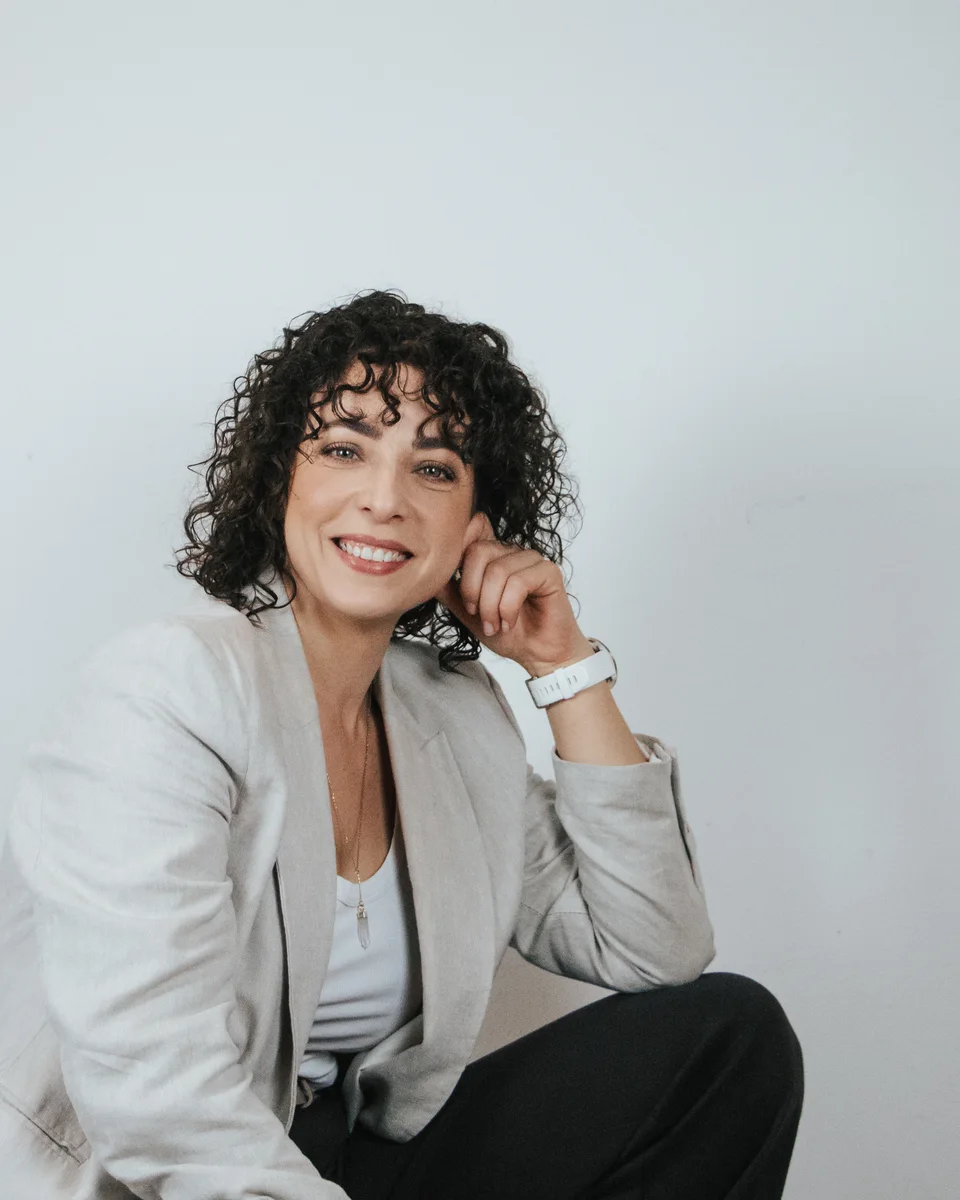
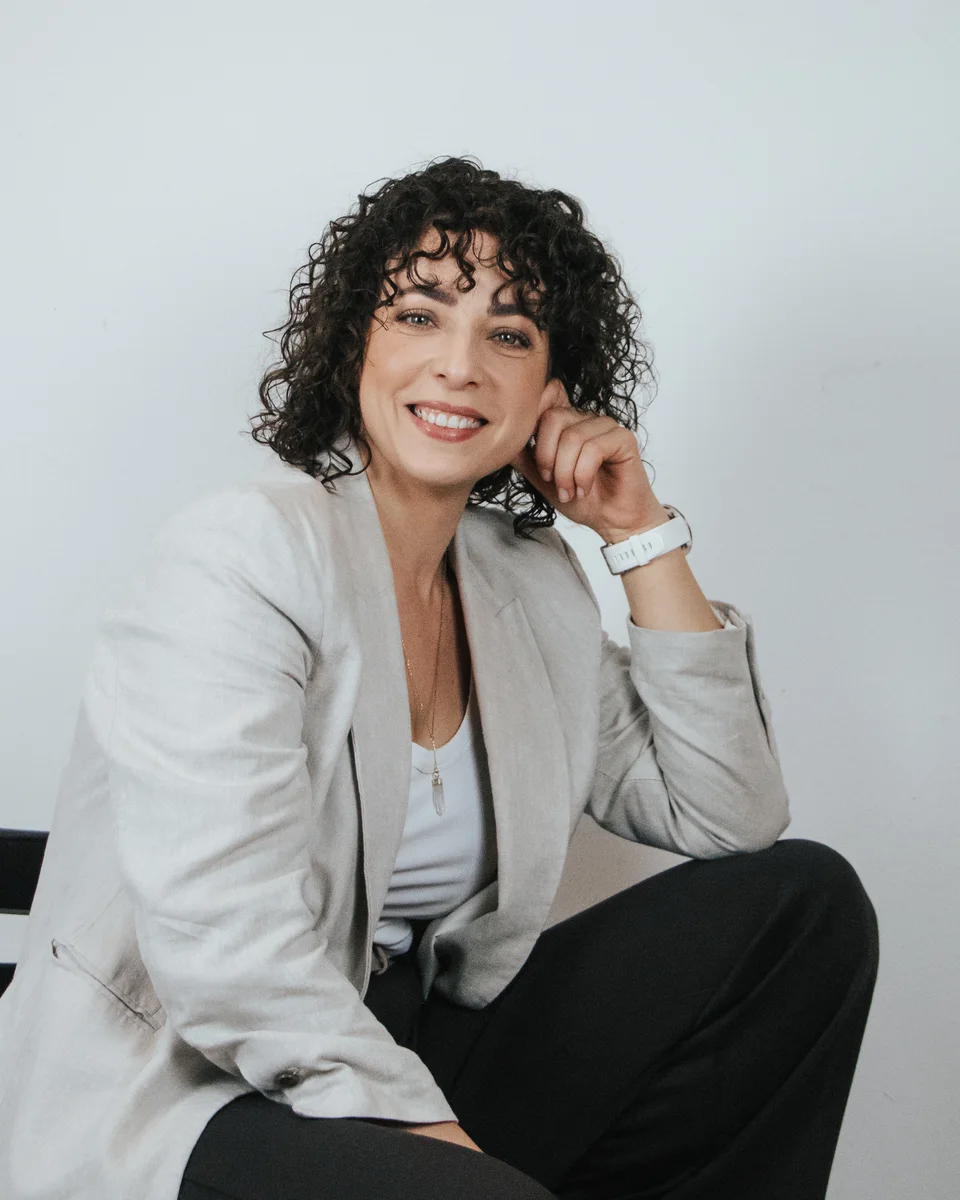
Center team portrait framing and align head positions

diff --git a/o-nas.html b/o-nas.html
@@ -1,4 +1,4 @@
 <!doctype html>
 <html lang="sk"><head><meta charset="utf-8"><meta http-equiv="Content-Security-Policy" content="default-src 'none'; base-uri 'none'; object-src 'none'; script-src 'self'; style-src 'self'; font-src 'self'; img-src 'self' data:; connect-src 'self' blob:; form-action 'none'"><meta name="referrer" content="strict-origin-when-cross-origin"><meta name="viewport" content="width=device-width,initial-scale=1"><meta name="robots" content="noindex,nofollow"><meta name="description" content="ATLAS Žilina — návrh a výroba kartónových obalov na mieru. Vizuálny koncept od Vivid Production."><title>O nás — ATLAS Žilina</title><link rel="stylesheet" href="style.css?v=20261125-portraits"></head>
 <body id="top"><div class="concept">VIZUÁLNY KONCEPT <span>ATLAS ŽILINA × VIVID PRODUCTION</span></div><header><a class="brand-lockup" href="index.html" aria-label="Atlas Žilina — úvod, od roku 1996"><img class="logo" src="logo.png" alt="ATLAS Žilina"><span class="brand-since">OD ROKU 1996</span></a><nav id="nav"><a href="index.html#riesenia">Obalové riešenia</a><a href="o-nas.html">O nás</a><a href="fefco.html">FEFCO katalóg</a><a href="index.html#kontakt">Kontakt</a></nav><a class="nav-cta" href="dopyt.html">Nezáväzný dopyt <span aria-hidden="true">↗</span></a><button id="menu" aria-label="Otvoriť menu" aria-expanded="false">☰</button></header>
-<main><section class="about-intro section"><span class="eyebrow">ATLAS / O NÁS</span><h1>Obaly vyrábame.<br><em>Vzťahy budujeme.</em></h1><p>Na trhu pôsobíme od roku 1996. Navrhujeme a vyrábame kartónové obaly na mieru pre malé aj veľké série. Spoznajte našu výrobu a ľudí, ktorí stoja za vaším obalom.</p><div class="about-links"><a href="materialy.html">Materiály ↗</a><a href="#vyroba">Výroba ↓</a><a href="#kvalita">Certifikáty ↓</a><a href="#tim">Náš tím ↓</a></div></section><section class="factory" id="vyroba"><div class="factory-title"><span class="eyebrow">02 / ZO SRDCA SLOVENSKA</span><h2>Za každým obalom<br>je skutočná <em>výroba.</em></h2></div><figure><img loading="lazy" src="material.jpg" alt="Pôvodná fotografia výrobnej haly z webu ATLAS Žilina"><figcaption><span>ATLAS Žilina / pohľad do výroby</span><span>PÔVODNÁ FOTOGRAFIA FIRMY</span></figcaption></figure><div class="factory-facts"><div><span class="fact-number">7<span>vrstiev</span></span><h3>Aj pre náročnejšie balenie.</h3><p>Vaše produkty balíme aj do 7-vrstvovej lepenky.</p></div><div><span class="fact-number fact-words">Malé aj veľké<span>série</span></span><h3>Objem podľa vašej potreby.</h3><p>Vyrábame malé aj veľké série obalov. Konkrétne množstvo si dohodneme podľa zadania.</p></div><div><span class="fact-number fact-words">Na mieru<span>produktu</span></span><h3>Od materiálu po rozmery.</h3><p>Navrhneme obal pre váš produkt. Používame kvalitnú recyklovateľnú lepenku.</p></div></div></section><section class="section process" id="spolupraca"><div class="section-top"><span class="eyebrow">03 / AKO TO ZABALÍME SPOLU</span></div><div class="intro"><h2>Od nápadu<br>k hotovému <em>obalu.</em></h2><p>Od prvého zadania k riešeniu pre váš produkt.</p></div><div class="process-cards"><article><span>01 / ZADANIE</span><h3>Začneme vaším produktom.</h3><p>Prejdeme si použitie obalu, požadované rozmery, množstvo a termín.</p></article><article><span>02 / NÁVRH</span><h3>Dáme mu správny tvar.</h3><p>Navrhneme riešenie na mieru. Môžeme vychádzať aj z vašej grafiky alebo technickej šablóny.</p></article><article><span>03 / VÝROBA</span><h3>Prejdeme k hotovému obalu.</h3><p>Po odsúhlasení zadania dohodneme výrobu a dodanie vašich obalov.</p></article></div></section><section class="quality" id="kvalita"><div class="quality-copy"><span class="eyebrow">05 / KVALITA MÁ SVOJ SYSTÉM</span><h2>Dôvera.<br>Čierne na <em>bielom.</em></h2><p>Certifikovaný systém manažérstva podľa EN ISO 9001:2015 pre výrobu kartonáže.</p><dl class="certificate-meta"><div><dt>Certifikačný orgán</dt><dd>TSÚ, a. s.</dd></div><div><dt>Registračné číslo</dt><dd>18/9/2026</dd></div><div><dt>Uvedená platnosť</dt><dd>25. 09. 2026 — 24. 09. 2029</dd></div></dl><div class="certificate-links"><a href="iso-9001-sk.pdf" target="_blank" rel="noopener">Certifikát / Slovensky <span>↗ PDF</span></a><a href="iso-9001-en.pdf" target="_blank" rel="noopener">Certificate / English <span>↗ PDF</span></a></div></div><a class="certificate-preview" href="iso-9001-sk.pdf" target="_blank" rel="noopener" aria-label="Otvoriť slovenský certifikát ISO 9001"><span class="cert-label">EN ISO 9001:2015</span><img src="certificate-preview.jpg" alt="Náhľad dodaného certifikátu ISO 9001 spoločnosti ATLAS Žilina" loading="lazy"><span class="cert-open">Pozrieť originál certifikátu ↗</span></a></section><section class="section team team-portraits" id="tim"><div class="section-top"><span class="eyebrow">ATLAS / ĽUDIA ZA OBALMI</span><span class="small">Osobne. Od prvého kontaktu.</span></div><div class="intro"><h2>Za značkou<br>stoja <em>ľudia.</em></h2><p>Spoznajte ľudí, ktorí stoja za vašimi obalmi. Od prvého zadania až po hotovú objednávku.</p></div><div class="team-grid"><article class="person person-known"><div class="portrait-frame"><img src="team/kristina-mastalerzova-960.webp" srcset="team/kristina-mastalerzova-480.webp 480w, team/kristina-mastalerzova-960.webp 960w" sizes="(max-width: 620px) calc((100vw - 46px) / 2), (max-width: 900px) calc((100vw - 100px) / 3), 420px" width="960" height="1200" loading="lazy" decoding="async" alt="Kristína Mastalerzová — Vedúca výroby"><span class="portrait-number" aria-hidden="true">01</span></div><div class="person-title"><h3>Kristína Mastalerzová</h3><a class="person-contact-arrow" href="mailto:mastalerzova@atlaszilina.sk" aria-label="Napísať e-mail: Kristína Mastalerzová">↗</a></div><p class="person-role">Vedúca výroby</p><a href="tel:+421905302631">+421 905 302 631</a><a href="mailto:mastalerzova@atlaszilina.sk">mastalerzova@atlaszilina.sk</a></article><article class="person person-known"><div class="portrait-frame"><img src="team/lea-mastalerzova-960.webp" srcset="team/lea-mastalerzova-480.webp 480w, team/lea-mastalerzova-960.webp 960w" sizes="(max-width: 620px) calc((100vw - 46px) / 2), (max-width: 900px) calc((100vw - 100px) / 3), 420px" width="960" height="1200" loading="lazy" decoding="async" alt="Lea Mastalerzová — Ekonomická a personálna riaditeľka, majiteľka"><span class="portrait-number" aria-hidden="true">02</span></div><div class="person-title"><h3>Lea Mastalerzová</h3><a class="person-contact-arrow" href="mailto:lea.mastalerzova@atlaszilina.sk" aria-label="Napísať e-mail: Lea Mastalerzová">↗</a></div><p class="person-role">Ekonomická a personálna riaditeľka, majiteľka</p><a href="tel:+421903253989">+421 903 253 989</a><a href="mailto:lea.mastalerzova@atlaszilina.sk">lea.mastalerzova@atlaszilina.sk</a></article><figure class="person person-portrait"><div class="portrait-frame"><img src="team/tim-01-960.webp" srcset="team/tim-01-480.webp 480w, team/tim-01-960.webp 960w" sizes="(max-width: 620px) calc((100vw - 46px) / 2), (max-width: 900px) calc((100vw - 100px) / 3), 420px" width="960" height="1200" loading="lazy" decoding="async" alt="Portrét členky tímu ATLAS Žilina"><span class="portrait-number" aria-hidden="true">03</span></div><figcaption class="portrait-team-label">ATLAS / ĽUDIA ZA OBALMI</figcaption></figure><figure class="person person-portrait"><div class="portrait-frame"><img src="team/tim-02-960.webp" srcset="team/tim-02-480.webp 480w, team/tim-02-960.webp 960w" sizes="(max-width: 620px) calc((100vw - 46px) / 2), (max-width: 900px) calc((100vw - 100px) / 3), 420px" width="960" height="1200" loading="lazy" decoding="async" alt="Portrét členky tímu ATLAS Žilina"><span class="portrait-number" aria-hidden="true">04</span></div><figcaption class="portrait-team-label">ATLAS / ĽUDIA ZA OBALMI</figcaption></figure><figure class="person person-portrait"><div class="portrait-frame"><img src="team/tim-03-960.webp" srcset="team/tim-03-480.webp 480w, team/tim-03-960.webp 960w" sizes="(max-width: 620px) calc((100vw - 46px) / 2), (max-width: 900px) calc((100vw - 100px) / 3), 420px" width="960" height="1200" loading="lazy" decoding="async" alt="Portrét členky tímu ATLAS Žilina"><span class="portrait-number" aria-hidden="true">05</span></div><figcaption class="portrait-team-label">ATLAS / ĽUDIA ZA OBALMI</figcaption></figure><figure class="person person-portrait"><div class="portrait-frame"><img src="team/tim-04-960.webp" srcset="team/tim-04-480.webp 480w, team/tim-04-960.webp 960w" sizes="(max-width: 620px) calc((100vw - 46px) / 2), (max-width: 900px) calc((100vw - 100px) / 3), 420px" width="960" height="1200" loading="lazy" decoding="async" alt="Portrét členky tímu ATLAS Žilina"><span class="portrait-number" aria-hidden="true">06</span></div><figcaption class="portrait-team-label">ATLAS / ĽUDIA ZA OBALMI</figcaption></figure></div><div class="team-directory"><div class="team-directory-heading"><span class="eyebrow">SPOJTE SA S NAMI</span><h3>Ďalšie kontakty</h3></div><div class="team-directory-grid"><article class="team-directory-card"><div class="person-title"><h3>Ing. Jana Mandúchová</h3></div><p class="person-role">Majiteľka</p><a href="tel:+421903506199">+421 903 506 199</a><a href="mailto:manduchova@mtmobaly.sk">manduchova@mtmobaly.sk</a></article><article class="team-directory-card"><div class="person-title"><h3>Lenka Čabajová</h3></div><p class="person-role">Obchodná zástupkyňa</p><a href="tel:+421903244194">+421 903 244 194</a><a href="mailto:objednavky@atlaszilina.sk">objednavky@atlaszilina.sk</a></article><article class="team-directory-card"><div class="person-title"><h3>Ing. Ľubomíra Hollá</h3></div><p class="person-role">Ekonómka</p><a href="tel:+421417002002">+421 41 7002 002</a><a href="mailto:ekonomka@atlaszilina.sk">ekonomka@atlaszilina.sk</a></article><article class="team-directory-card"><div class="person-title"><h3>Ivana Bellová</h3></div><p class="person-role">Fakturantka</p><a href="tel:+421417002002">+421 41 7002 002</a><a href="mailto:faktury@atlaszilina.sk">faktury@atlaszilina.sk</a></article></div></div></section></main><footer id="kontakt"><div class="footer-top"><img src="logo.png" alt="ATLAS Žilina" class="logo"><p>Sme váš partner<br>vo svete obalov.</p><a href="#">Späť hore ↑</a></div><div class="footer-grid"><div><span class="eyebrow">NÁJDETE NÁS</span><p>Atlas Žilina, s. r. o.<br>Jasenové 236<br>013 19 Jasenové, Slovensko</p><a href="https://www.google.com/maps/search/?api=1&query=Atlas+Zilina+Jasenove+236" target="_blank" rel="noopener">Otvoriť mapu ↗</a></div><div><span class="eyebrow">BUĎME V KONTAKTE</span><p><a href="mailto:atlaszilina@atlaszilina.sk">atlaszilina@atlaszilina.sk</a><br><a href="tel:+421417637349">+421 41 7637 349</a><br><a href="tel:+421417002002">+421 41 7002 002</a><br><a href="tel:+421417002009">+421 41 7002 009</a></p></div><div><span class="eyebrow">FIREMNÉ ÚDAJE</span><p>IČO: 36006068<br>IČ DPH: SK2020447561<br>Fax: +421 41 7002 006</p><a href="https://www.facebook.com/profile.php?id=100064442391622" target="_blank" rel="noopener">Facebook ↗</a></div><div><span class="eyebrow">DOKUMENTY</span><p><a href="https://www.atlaszilina.sk/files/VOP.pdf" target="_blank" rel="noopener">Obchodné podmienky ↗</a><br><a href="https://www.atlaszilina.sk/files/reklamacny_poriadok.pdf" target="_blank" rel="noopener">Reklamačný poriadok ↗</a><br><a href="https://www.atlaszilina.sk/files/GDPR_ATLAS.pdf" target="_blank" rel="noopener">Ochrana osobných údajov ↗</a></p></div></div><div class="footer-bottom"><span>© 2026 ATLAS Žilina · Vizuálny návrh, nie oficiálny web.</span><span>KONCEPT & DIZAJN / VIVID PRODUCTION</span></div></footer><script src="app.js"></script></body></html>
+<main><section class="about-intro section"><span class="eyebrow">ATLAS / O NÁS</span><h1>Obaly vyrábame.<br><em>Vzťahy budujeme.</em></h1><p>Na trhu pôsobíme od roku 1996. Navrhujeme a vyrábame kartónové obaly na mieru pre malé aj veľké série. Spoznajte našu výrobu a ľudí, ktorí stoja za vaším obalom.</p><div class="about-links"><a href="materialy.html">Materiály ↗</a><a href="#vyroba">Výroba ↓</a><a href="#kvalita">Certifikáty ↓</a><a href="#tim">Náš tím ↓</a></div></section><section class="factory" id="vyroba"><div class="factory-title"><span class="eyebrow">02 / ZO SRDCA SLOVENSKA</span><h2>Za každým obalom<br>je skutočná <em>výroba.</em></h2></div><figure><img loading="lazy" src="material.jpg" alt="Pôvodná fotografia výrobnej haly z webu ATLAS Žilina"><figcaption><span>ATLAS Žilina / pohľad do výroby</span><span>PÔVODNÁ FOTOGRAFIA FIRMY</span></figcaption></figure><div class="factory-facts"><div><span class="fact-number">7<span>vrstiev</span></span><h3>Aj pre náročnejšie balenie.</h3><p>Vaše produkty balíme aj do 7-vrstvovej lepenky.</p></div><div><span class="fact-number fact-words">Malé aj veľké<span>série</span></span><h3>Objem podľa vašej potreby.</h3><p>Vyrábame malé aj veľké série obalov. Konkrétne množstvo si dohodneme podľa zadania.</p></div><div><span class="fact-number fact-words">Na mieru<span>produktu</span></span><h3>Od materiálu po rozmery.</h3><p>Navrhneme obal pre váš produkt. Používame kvalitnú recyklovateľnú lepenku.</p></div></div></section><section class="section process" id="spolupraca"><div class="section-top"><span class="eyebrow">03 / AKO TO ZABALÍME SPOLU</span></div><div class="intro"><h2>Od nápadu<br>k hotovému <em>obalu.</em></h2><p>Od prvého zadania k riešeniu pre váš produkt.</p></div><div class="process-cards"><article><span>01 / ZADANIE</span><h3>Začneme vaším produktom.</h3><p>Prejdeme si použitie obalu, požadované rozmery, množstvo a termín.</p></article><article><span>02 / NÁVRH</span><h3>Dáme mu správny tvar.</h3><p>Navrhneme riešenie na mieru. Môžeme vychádzať aj z vašej grafiky alebo technickej šablóny.</p></article><article><span>03 / VÝROBA</span><h3>Prejdeme k hotovému obalu.</h3><p>Po odsúhlasení zadania dohodneme výrobu a dodanie vašich obalov.</p></article></div></section><section class="quality" id="kvalita"><div class="quality-copy"><span class="eyebrow">05 / KVALITA MÁ SVOJ SYSTÉM</span><h2>Dôvera.<br>Čierne na <em>bielom.</em></h2><p>Certifikovaný systém manažérstva podľa EN ISO 9001:2015 pre výrobu kartonáže.</p><dl class="certificate-meta"><div><dt>Certifikačný orgán</dt><dd>TSÚ, a. s.</dd></div><div><dt>Registračné číslo</dt><dd>18/9/2026</dd></div><div><dt>Uvedená platnosť</dt><dd>25. 09. 2026 — 24. 09. 2029</dd></div></dl><div class="certificate-links"><a href="iso-9001-sk.pdf" target="_blank" rel="noopener">Certifikát / Slovensky <span>↗ PDF</span></a><a href="iso-9001-en.pdf" target="_blank" rel="noopener">Certificate / English <span>↗ PDF</span></a></div></div><a class="certificate-preview" href="iso-9001-sk.pdf" target="_blank" rel="noopener" aria-label="Otvoriť slovenský certifikát ISO 9001"><span class="cert-label">EN ISO 9001:2015</span><img src="certificate-preview.jpg" alt="Náhľad dodaného certifikátu ISO 9001 spoločnosti ATLAS Žilina" loading="lazy"><span class="cert-open">Pozrieť originál certifikátu ↗</span></a></section><section class="section team team-portraits" id="tim"><div class="section-top"><span class="eyebrow">ATLAS / ĽUDIA ZA OBALMI</span><span class="small">Osobne. Od prvého kontaktu.</span></div><div class="intro"><h2>Za značkou<br>stoja <em>ľudia.</em></h2><p>Spoznajte ľudí, ktorí stoja za vašimi obalmi. Od prvého zadania až po hotovú objednávku.</p></div><div class="team-grid"><article class="person person-known"><div class="portrait-frame"><img src="team/kristina-mastalerzova-960.webp?v=20261125-center" srcset="team/kristina-mastalerzova-480.webp?v=20261125-center 480w, team/kristina-mastalerzova-960.webp?v=20261125-center 960w" sizes="(max-width: 620px) calc((100vw - 46px) / 2), (max-width: 900px) calc((100vw - 100px) / 3), 420px" width="960" height="1200" loading="lazy" decoding="async" alt="Kristína Mastalerzová — Vedúca výroby"><span class="portrait-number" aria-hidden="true">01</span></div><div class="person-title"><h3>Kristína Mastalerzová</h3><a class="person-contact-arrow" href="mailto:mastalerzova@atlaszilina.sk" aria-label="Napísať e-mail: Kristína Mastalerzová">↗</a></div><p class="person-role">Vedúca výroby</p><a href="tel:+421905302631">+421 905 302 631</a><a href="mailto:mastalerzova@atlaszilina.sk">mastalerzova@atlaszilina.sk</a></article><article class="person person-known"><div class="portrait-frame"><img src="team/lea-mastalerzova-960.webp?v=20261125-center" srcset="team/lea-mastalerzova-480.webp?v=20261125-center 480w, team/lea-mastalerzova-960.webp?v=20261125-center 960w" sizes="(max-width: 620px) calc((100vw - 46px) / 2), (max-width: 900px) calc((100vw - 100px) / 3), 420px" width="960" height="1200" loading="lazy" decoding="async" alt="Lea Mastalerzová — Ekonomická a personálna riaditeľka, majiteľka"><span class="portrait-number" aria-hidden="true">02</span></div><div class="person-title"><h3>Lea Mastalerzová</h3><a class="person-contact-arrow" href="mailto:lea.mastalerzova@atlaszilina.sk" aria-label="Napísať e-mail: Lea Mastalerzová">↗</a></div><p class="person-role">Ekonomická a personálna riaditeľka, majiteľka</p><a href="tel:+421903253989">+421 903 253 989</a><a href="mailto:lea.mastalerzova@atlaszilina.sk">lea.mastalerzova@atlaszilina.sk</a></article><figure class="person person-portrait"><div class="portrait-frame"><img src="team/tim-01-960.webp?v=20261125-center" srcset="team/tim-01-480.webp?v=20261125-center 480w, team/tim-01-960.webp?v=20261125-center 960w" sizes="(max-width: 620px) calc((100vw - 46px) / 2), (max-width: 900px) calc((100vw - 100px) / 3), 420px" width="960" height="1200" loading="lazy" decoding="async" alt="Portrét členky tímu ATLAS Žilina"><span class="portrait-number" aria-hidden="true">03</span></div><figcaption class="portrait-team-label">ATLAS / ĽUDIA ZA OBALMI</figcaption></figure><figure class="person person-portrait"><div class="portrait-frame"><img src="team/tim-02-960.webp?v=20261125-center" srcset="team/tim-02-480.webp?v=20261125-center 480w, team/tim-02-960.webp?v=20261125-center 960w" sizes="(max-width: 620px) calc((100vw - 46px) / 2), (max-width: 900px) calc((100vw - 100px) / 3), 420px" width="960" height="1200" loading="lazy" decoding="async" alt="Portrét členky tímu ATLAS Žilina"><span class="portrait-number" aria-hidden="true">04</span></div><figcaption class="portrait-team-label">ATLAS / ĽUDIA ZA OBALMI</figcaption></figure><figure class="person person-portrait"><div class="portrait-frame"><img src="team/tim-03-960.webp?v=20261125-center" srcset="team/tim-03-480.webp?v=20261125-center 480w, team/tim-03-960.webp?v=20261125-center 960w" sizes="(max-width: 620px) calc((100vw - 46px) / 2), (max-width: 900px) calc((100vw - 100px) / 3), 420px" width="960" height="1200" loading="lazy" decoding="async" alt="Portrét členky tímu ATLAS Žilina"><span class="portrait-number" aria-hidden="true">05</span></div><figcaption class="portrait-team-label">ATLAS / ĽUDIA ZA OBALMI</figcaption></figure><figure class="person person-portrait"><div class="portrait-frame"><img src="team/tim-04-960.webp?v=20261125-center" srcset="team/tim-04-480.webp?v=20261125-center 480w, team/tim-04-960.webp?v=20261125-center 960w" sizes="(max-width: 620px) calc((100vw - 46px) / 2), (max-width: 900px) calc((100vw - 100px) / 3), 420px" width="960" height="1200" loading="lazy" decoding="async" alt="Portrét členky tímu ATLAS Žilina"><span class="portrait-number" aria-hidden="true">06</span></div><figcaption class="portrait-team-label">ATLAS / ĽUDIA ZA OBALMI</figcaption></figure></div><div class="team-directory"><div class="team-directory-heading"><span class="eyebrow">SPOJTE SA S NAMI</span><h3>Ďalšie kontakty</h3></div><div class="team-directory-grid"><article class="team-directory-card"><div class="person-title"><h3>Ing. Jana Mandúchová</h3></div><p class="person-role">Majiteľka</p><a href="tel:+421903506199">+421 903 506 199</a><a href="mailto:manduchova@mtmobaly.sk">manduchova@mtmobaly.sk</a></article><article class="team-directory-card"><div class="person-title"><h3>Lenka Čabajová</h3></div><p class="person-role">Obchodná zástupkyňa</p><a href="tel:+421903244194">+421 903 244 194</a><a href="mailto:objednavky@atlaszilina.sk">objednavky@atlaszilina.sk</a></article><article class="team-directory-card"><div class="person-title"><h3>Ing. Ľubomíra Hollá</h3></div><p class="person-role">Ekonómka</p><a href="tel:+421417002002">+421 41 7002 002</a><a href="mailto:ekonomka@atlaszilina.sk">ekonomka@atlaszilina.sk</a></article><article class="team-directory-card"><div class="person-title"><h3>Ivana Bellová</h3></div><p class="person-role">Fakturantka</p><a href="tel:+421417002002">+421 41 7002 002</a><a href="mailto:faktury@atlaszilina.sk">faktury@atlaszilina.sk</a></article></div></div></section></main><footer id="kontakt"><div class="footer-top"><img src="logo.png" alt="ATLAS Žilina" class="logo"><p>Sme váš partner<br>vo svete obalov.</p><a href="#">Späť hore ↑</a></div><div class="footer-grid"><div><span class="eyebrow">NÁJDETE NÁS</span><p>Atlas Žilina, s. r. o.<br>Jasenové 236<br>013 19 Jasenové, Slovensko</p><a href="https://www.google.com/maps/search/?api=1&query=Atlas+Zilina+Jasenove+236" target="_blank" rel="noopener">Otvoriť mapu ↗</a></div><div><span class="eyebrow">BUĎME V KONTAKTE</span><p><a href="mailto:atlaszilina@atlaszilina.sk">atlaszilina@atlaszilina.sk</a><br><a href="tel:+421417637349">+421 41 7637 349</a><br><a href="tel:+421417002002">+421 41 7002 002</a><br><a href="tel:+421417002009">+421 41 7002 009</a></p></div><div><span class="eyebrow">FIREMNÉ ÚDAJE</span><p>IČO: 36006068<br>IČ DPH: SK2020447561<br>Fax: +421 41 7002 006</p><a href="https://www.facebook.com/profile.php?id=100064442391622" target="_blank" rel="noopener">Facebook ↗</a></div><div><span class="eyebrow">DOKUMENTY</span><p><a href="https://www.atlaszilina.sk/files/VOP.pdf" target="_blank" rel="noopener">Obchodné podmienky ↗</a><br><a href="https://www.atlaszilina.sk/files/reklamacny_poriadok.pdf" target="_blank" rel="noopener">Reklamačný poriadok ↗</a><br><a href="https://www.atlaszilina.sk/files/GDPR_ATLAS.pdf" target="_blank" rel="noopener">Ochrana osobných údajov ↗</a></p></div></div><div class="footer-bottom"><span>© 2026 ATLAS Žilina · Vizuálny návrh, nie oficiálny web.</span><span>KONCEPT & DIZAJN / VIVID PRODUCTION</span></div></footer><script src="app.js"></script></body></html>

diff --git a/tim.html b/tim.html
@@ -1,2 +1,2 @@
 <!doctype html>
-<html lang="sk"><head><meta charset="utf-8"><meta http-equiv="Content-Security-Policy" content="default-src 'none'; base-uri 'none'; object-src 'none'; script-src 'self'; style-src 'self'; font-src 'self'; img-src 'self' data:; connect-src 'self' blob:; form-action 'none'"><meta name="referrer" content="strict-origin-when-cross-origin"><meta name="viewport" content="width=device-width,initial-scale=1"><meta name="robots" content="noindex,nofollow"><meta name="description" content="ATLAS Žilina — návrh a výroba kartónových obalov na mieru. Vizuálny koncept od Vivid Production."><title>Náš tím — ATLAS Žilina</title><link rel="stylesheet" href="style.css?v=20261125-portraits"></head><body id="top"><div class="concept">VIZUÁLNY KONCEPT <span>ATLAS ŽILINA × VIVID PRODUCTION</span></div><header><a class="brand-lockup" href="index.html" aria-label="Atlas Žilina — úvod, od roku 1996"><img class="logo" src="logo.png" alt="ATLAS Žilina"><span class="brand-since">OD ROKU 1996</span></a><nav id="nav"><a href="index.html#riesenia">Obalové riešenia</a><a href="o-nas.html">O nás</a><a href="fefco.html">FEFCO katalóg</a><a href="index.html#kontakt">Kontakt</a></nav><a class="nav-cta" href="dopyt.html">Nezáväzný dopyt <span aria-hidden="true">↗</span></a><button id="menu" aria-label="Otvoriť menu" aria-expanded="false">☰</button></header><main><a class="page-back" href="index.html">← Späť na úvod</a><section class="section team team-portraits" id="tim"><div class="section-top"><span class="eyebrow">ATLAS / ĽUDIA ZA OBALMI</span><span class="small">Osobne. Od prvého kontaktu.</span></div><div class="intro"><h2>Za značkou<br>stoja <em>ľudia.</em></h2><p>Spoznajte ľudí, ktorí stoja za vašimi obalmi. Od prvého zadania až po hotovú objednávku.</p></div><div class="team-grid"><article class="person person-known"><div class="portrait-frame"><img src="team/kristina-mastalerzova-960.webp" srcset="team/kristina-mastalerzova-480.webp 480w, team/kristina-mastalerzova-960.webp 960w" sizes="(max-width: 620px) calc((100vw - 46px) / 2), (max-width: 900px) calc((100vw - 100px) / 3), 420px" width="960" height="1200" loading="lazy" decoding="async" alt="Kristína Mastalerzová — Vedúca výroby"><span class="portrait-number" aria-hidden="true">01</span></div><div class="person-title"><h3>Kristína Mastalerzová</h3><a class="person-contact-arrow" href="mailto:mastalerzova@atlaszilina.sk" aria-label="Napísať e-mail: Kristína Mastalerzová">↗</a></div><p class="person-role">Vedúca výroby</p><a href="tel:+421905302631">+421 905 302 631</a><a href="mailto:mastalerzova@atlaszilina.sk">mastalerzova@atlaszilina.sk</a></article><article class="person person-known"><div class="portrait-frame"><img src="team/lea-mastalerzova-960.webp" srcset="team/lea-mastalerzova-480.webp 480w, team/lea-mastalerzova-960.webp 960w" sizes="(max-width: 620px) calc((100vw - 46px) / 2), (max-width: 900px) calc((100vw - 100px) / 3), 420px" width="960" height="1200" loading="lazy" decoding="async" alt="Lea Mastalerzová — Ekonomická a personálna riaditeľka, majiteľka"><span class="portrait-number" aria-hidden="true">02</span></div><div class="person-title"><h3>Lea Mastalerzová</h3><a class="person-contact-arrow" href="mailto:lea.mastalerzova@atlaszilina.sk" aria-label="Napísať e-mail: Lea Mastalerzová">↗</a></div><p class="person-role">Ekonomická a personálna riaditeľka, majiteľka</p><a href="tel:+421903253989">+421 903 253 989</a><a href="mailto:lea.mastalerzova@atlaszilina.sk">lea.mastalerzova@atlaszilina.sk</a></article><figure class="person person-portrait"><div class="portrait-frame"><img src="team/tim-01-960.webp" srcset="team/tim-01-480.webp 480w, team/tim-01-960.webp 960w" sizes="(max-width: 620px) calc((100vw - 46px) / 2), (max-width: 900px) calc((100vw - 100px) / 3), 420px" width="960" height="1200" loading="lazy" decoding="async" alt="Portrét členky tímu ATLAS Žilina"><span class="portrait-number" aria-hidden="true">03</span></div><figcaption class="portrait-team-label">ATLAS / ĽUDIA ZA OBALMI</figcaption></figure><figure class="person person-portrait"><div class="portrait-frame"><img src="team/tim-02-960.webp" srcset="team/tim-02-480.webp 480w, team/tim-02-960.webp 960w" sizes="(max-width: 620px) calc((100vw - 46px) / 2), (max-width: 900px) calc((100vw - 100px) / 3), 420px" width="960" height="1200" loading="lazy" decoding="async" alt="Portrét členky tímu ATLAS Žilina"><span class="portrait-number" aria-hidden="true">04</span></div><figcaption class="portrait-team-label">ATLAS / ĽUDIA ZA OBALMI</figcaption></figure><figure class="person person-portrait"><div class="portrait-frame"><img src="team/tim-03-960.webp" srcset="team/tim-03-480.webp 480w, team/tim-03-960.webp 960w" sizes="(max-width: 620px) calc((100vw - 46px) / 2), (max-width: 900px) calc((100vw - 100px) / 3), 420px" width="960" height="1200" loading="lazy" decoding="async" alt="Portrét členky tímu ATLAS Žilina"><span class="portrait-number" aria-hidden="true">05</span></div><figcaption class="portrait-team-label">ATLAS / ĽUDIA ZA OBALMI</figcaption></figure><figure class="person person-portrait"><div class="portrait-frame"><img src="team/tim-04-960.webp" srcset="team/tim-04-480.webp 480w, team/tim-04-960.webp 960w" sizes="(max-width: 620px) calc((100vw - 46px) / 2), (max-width: 900px) calc((100vw - 100px) / 3), 420px" width="960" height="1200" loading="lazy" decoding="async" alt="Portrét členky tímu ATLAS Žilina"><span class="portrait-number" aria-hidden="true">06</span></div><figcaption class="portrait-team-label">ATLAS / ĽUDIA ZA OBALMI</figcaption></figure></div><div class="team-directory"><div class="team-directory-heading"><span class="eyebrow">SPOJTE SA S NAMI</span><h3>Ďalšie kontakty</h3></div><div class="team-directory-grid"><article class="team-directory-card"><div class="person-title"><h3>Ing. Jana Mandúchová</h3></div><p class="person-role">Majiteľka</p><a href="tel:+421903506199">+421 903 506 199</a><a href="mailto:manduchova@mtmobaly.sk">manduchova@mtmobaly.sk</a></article><article class="team-directory-card"><div class="person-title"><h3>Lenka Čabajová</h3></div><p class="person-role">Obchodná zástupkyňa</p><a href="tel:+421903244194">+421 903 244 194</a><a href="mailto:objednavky@atlaszilina.sk">objednavky@atlaszilina.sk</a></article><article class="team-directory-card"><div class="person-title"><h3>Ing. Ľubomíra Hollá</h3></div><p class="person-role">Ekonómka</p><a href="tel:+421417002002">+421 41 7002 002</a><a href="mailto:ekonomka@atlaszilina.sk">ekonomka@atlaszilina.sk</a></article><article class="team-directory-card"><div class="person-title"><h3>Ivana Bellová</h3></div><p class="person-role">Fakturantka</p><a href="tel:+421417002002">+421 41 7002 002</a><a href="mailto:faktury@atlaszilina.sk">faktury@atlaszilina.sk</a></article></div></div></section></main><footer id="kontakt"><div class="footer-top"><img src="logo.png" alt="ATLAS Žilina" class="logo"><p>Sme váš partner<br>vo svete obalov.</p><a href="#top">Späť hore ↑</a></div><div class="footer-grid"><div><span class="eyebrow">NÁJDETE NÁS</span><p>Atlas Žilina, s. r. o.<br>Jasenové 236<br>013 19 Jasenové, Slovensko</p><a href="https://www.google.com/maps/search/?api=1&query=Atlas+Zilina+Jasenove+236" target="_blank" rel="noopener">Otvoriť mapu ↗</a></div><div><span class="eyebrow">BUĎME V KONTAKTE</span><p><a href="mailto:atlaszilina@atlaszilina.sk">atlaszilina@atlaszilina.sk</a><br><a href="tel:+421417637349">+421 41 7637 349</a><br><a href="tel:+421417002002">+421 41 7002 002</a><br><a href="tel:+421417002009">+421 41 7002 009</a></p></div><div><span class="eyebrow">FIREMNÉ ÚDAJE</span><p>IČO: 36006068<br>IČ DPH: SK2020447561<br>Fax: +421 41 7002 006</p><a href="https://www.facebook.com/profile.php?id=100064442391622" target="_blank" rel="noopener">Facebook ↗</a></div><div><span class="eyebrow">DOKUMENTY</span><p><a href="https://www.atlaszilina.sk/files/VOP.pdf" target="_blank" rel="noopener">Obchodné podmienky ↗</a><br><a href="https://www.atlaszilina.sk/files/reklamacny_poriadok.pdf" target="_blank" rel="noopener">Reklamačný poriadok ↗</a><br><a href="https://www.atlaszilina.sk/files/GDPR_ATLAS.pdf" target="_blank" rel="noopener">Ochrana osobných údajov ↗</a></p></div></div><div class="footer-bottom"><span>© 2026 ATLAS Žilina · Vizuálny návrh, nie oficiálny web.</span><span>KONCEPT & DIZAJN / VIVID PRODUCTION</span></div></footer><script src="app.js"></script></body></html>
+<html lang="sk"><head><meta charset="utf-8"><meta http-equiv="Content-Security-Policy" content="default-src 'none'; base-uri 'none'; object-src 'none'; script-src 'self'; style-src 'self'; font-src 'self'; img-src 'self' data:; connect-src 'self' blob:; form-action 'none'"><meta name="referrer" content="strict-origin-when-cross-origin"><meta name="viewport" content="width=device-width,initial-scale=1"><meta name="robots" content="noindex,nofollow"><meta name="description" content="ATLAS Žilina — návrh a výroba kartónových obalov na mieru. Vizuálny koncept od Vivid Production."><title>Náš tím — ATLAS Žilina</title><link rel="stylesheet" href="style.css?v=20261125-portraits"></head><body id="top"><div class="concept">VIZUÁLNY KONCEPT <span>ATLAS ŽILINA × VIVID PRODUCTION</span></div><header><a class="brand-lockup" href="index.html" aria-label="Atlas Žilina — úvod, od roku 1996"><img class="logo" src="logo.png" alt="ATLAS Žilina"><span class="brand-since">OD ROKU 1996</span></a><nav id="nav"><a href="index.html#riesenia">Obalové riešenia</a><a href="o-nas.html">O nás</a><a href="fefco.html">FEFCO katalóg</a><a href="index.html#kontakt">Kontakt</a></nav><a class="nav-cta" href="dopyt.html">Nezáväzný dopyt <span aria-hidden="true">↗</span></a><button id="menu" aria-label="Otvoriť menu" aria-expanded="false">☰</button></header><main><a class="page-back" href="index.html">← Späť na úvod</a><section class="section team team-portraits" id="tim"><div class="section-top"><span class="eyebrow">ATLAS / ĽUDIA ZA OBALMI</span><span class="small">Osobne. Od prvého kontaktu.</span></div><div class="intro"><h2>Za značkou<br>stoja <em>ľudia.</em></h2><p>Spoznajte ľudí, ktorí stoja za vašimi obalmi. Od prvého zadania až po hotovú objednávku.</p></div><div class="team-grid"><article class="person person-known"><div class="portrait-frame"><img src="team/kristina-mastalerzova-960.webp?v=20261125-center" srcset="team/kristina-mastalerzova-480.webp?v=20261125-center 480w, team/kristina-mastalerzova-960.webp?v=20261125-center 960w" sizes="(max-width: 620px) calc((100vw - 46px) / 2), (max-width: 900px) calc((100vw - 100px) / 3), 420px" width="960" height="1200" loading="lazy" decoding="async" alt="Kristína Mastalerzová — Vedúca výroby"><span class="portrait-number" aria-hidden="true">01</span></div><div class="person-title"><h3>Kristína Mastalerzová</h3><a class="person-contact-arrow" href="mailto:mastalerzova@atlaszilina.sk" aria-label="Napísať e-mail: Kristína Mastalerzová">↗</a></div><p class="person-role">Vedúca výroby</p><a href="tel:+421905302631">+421 905 302 631</a><a href="mailto:mastalerzova@atlaszilina.sk">mastalerzova@atlaszilina.sk</a></article><article class="person person-known"><div class="portrait-frame"><img src="team/lea-mastalerzova-960.webp?v=20261125-center" srcset="team/lea-mastalerzova-480.webp?v=20261125-center 480w, team/lea-mastalerzova-960.webp?v=20261125-center 960w" sizes="(max-width: 620px) calc((100vw - 46px) / 2), (max-width: 900px) calc((100vw - 100px) / 3), 420px" width="960" height="1200" loading="lazy" decoding="async" alt="Lea Mastalerzová — Ekonomická a personálna riaditeľka, majiteľka"><span class="portrait-number" aria-hidden="true">02</span></div><div class="person-title"><h3>Lea Mastalerzová</h3><a class="person-contact-arrow" href="mailto:lea.mastalerzova@atlaszilina.sk" aria-label="Napísať e-mail: Lea Mastalerzová">↗</a></div><p class="person-role">Ekonomická a personálna riaditeľka, majiteľka</p><a href="tel:+421903253989">+421 903 253 989</a><a href="mailto:lea.mastalerzova@atlaszilina.sk">lea.mastalerzova@atlaszilina.sk</a></article><figure class="person person-portrait"><div class="portrait-frame"><img src="team/tim-01-960.webp?v=20261125-center" srcset="team/tim-01-480.webp?v=20261125-center 480w, team/tim-01-960.webp?v=20261125-center 960w" sizes="(max-width: 620px) calc((100vw - 46px) / 2), (max-width: 900px) calc((100vw - 100px) / 3), 420px" width="960" height="1200" loading="lazy" decoding="async" alt="Portrét členky tímu ATLAS Žilina"><span class="portrait-number" aria-hidden="true">03</span></div><figcaption class="portrait-team-label">ATLAS / ĽUDIA ZA OBALMI</figcaption></figure><figure class="person person-portrait"><div class="portrait-frame"><img src="team/tim-02-960.webp?v=20261125-center" srcset="team/tim-02-480.webp?v=20261125-center 480w, team/tim-02-960.webp?v=20261125-center 960w" sizes="(max-width: 620px) calc((100vw - 46px) / 2), (max-width: 900px) calc((100vw - 100px) / 3), 420px" width="960" height="1200" loading="lazy" decoding="async" alt="Portrét členky tímu ATLAS Žilina"><span class="portrait-number" aria-hidden="true">04</span></div><figcaption class="portrait-team-label">ATLAS / ĽUDIA ZA OBALMI</figcaption></figure><figure class="person person-portrait"><div class="portrait-frame"><img src="team/tim-03-960.webp?v=20261125-center" srcset="team/tim-03-480.webp?v=20261125-center 480w, team/tim-03-960.webp?v=20261125-center 960w" sizes="(max-width: 620px) calc((100vw - 46px) / 2), (max-width: 900px) calc((100vw - 100px) / 3), 420px" width="960" height="1200" loading="lazy" decoding="async" alt="Portrét členky tímu ATLAS Žilina"><span class="portrait-number" aria-hidden="true">05</span></div><figcaption class="portrait-team-label">ATLAS / ĽUDIA ZA OBALMI</figcaption></figure><figure class="person person-portrait"><div class="portrait-frame"><img src="team/tim-04-960.webp?v=20261125-center" srcset="team/tim-04-480.webp?v=20261125-center 480w, team/tim-04-960.webp?v=20261125-center 960w" sizes="(max-width: 620px) calc((100vw - 46px) / 2), (max-width: 900px) calc((100vw - 100px) / 3), 420px" width="960" height="1200" loading="lazy" decoding="async" alt="Portrét členky tímu ATLAS Žilina"><span class="portrait-number" aria-hidden="true">06</span></div><figcaption class="portrait-team-label">ATLAS / ĽUDIA ZA OBALMI</figcaption></figure></div><div class="team-directory"><div class="team-directory-heading"><span class="eyebrow">SPOJTE SA S NAMI</span><h3>Ďalšie kontakty</h3></div><div class="team-directory-grid"><article class="team-directory-card"><div class="person-title"><h3>Ing. Jana Mandúchová</h3></div><p class="person-role">Majiteľka</p><a href="tel:+421903506199">+421 903 506 199</a><a href="mailto:manduchova@mtmobaly.sk">manduchova@mtmobaly.sk</a></article><article class="team-directory-card"><div class="person-title"><h3>Lenka Čabajová</h3></div><p class="person-role">Obchodná zástupkyňa</p><a href="tel:+421903244194">+421 903 244 194</a><a href="mailto:objednavky@atlaszilina.sk">objednavky@atlaszilina.sk</a></article><article class="team-directory-card"><div class="person-title"><h3>Ing. Ľubomíra Hollá</h3></div><p class="person-role">Ekonómka</p><a href="tel:+421417002002">+421 41 7002 002</a><a href="mailto:ekonomka@atlaszilina.sk">ekonomka@atlaszilina.sk</a></article><article class="team-directory-card"><div class="person-title"><h3>Ivana Bellová</h3></div><p class="person-role">Fakturantka</p><a href="tel:+421417002002">+421 41 7002 002</a><a href="mailto:faktury@atlaszilina.sk">faktury@atlaszilina.sk</a></article></div></div></section></main><footer id="kontakt"><div class="footer-top"><img src="logo.png" alt="ATLAS Žilina" class="logo"><p>Sme váš partner<br>vo svete obalov.</p><a href="#top">Späť hore ↑</a></div><div class="footer-grid"><div><span class="eyebrow">NÁJDETE NÁS</span><p>Atlas Žilina, s. r. o.<br>Jasenové 236<br>013 19 Jasenové, Slovensko</p><a href="https://www.google.com/maps/search/?api=1&query=Atlas+Zilina+Jasenove+236" target="_blank" rel="noopener">Otvoriť mapu ↗</a></div><div><span class="eyebrow">BUĎME V KONTAKTE</span><p><a href="mailto:atlaszilina@atlaszilina.sk">atlaszilina@atlaszilina.sk</a><br><a href="tel:+421417637349">+421 41 7637 349</a><br><a href="tel:+421417002002">+421 41 7002 002</a><br><a href="tel:+421417002009">+421 41 7002 009</a></p></div><div><span class="eyebrow">FIREMNÉ ÚDAJE</span><p>IČO: 36006068<br>IČ DPH: SK2020447561<br>Fax: +421 41 7002 006</p><a href="https://www.facebook.com/profile.php?id=100064442391622" target="_blank" rel="noopener">Facebook ↗</a></div><div><span class="eyebrow">DOKUMENTY</span><p><a href="https://www.atlaszilina.sk/files/VOP.pdf" target="_blank" rel="noopener">Obchodné podmienky ↗</a><br><a href="https://www.atlaszilina.sk/files/reklamacny_poriadok.pdf" target="_blank" rel="noopener">Reklamačný poriadok ↗</a><br><a href="https://www.atlaszilina.sk/files/GDPR_ATLAS.pdf" target="_blank" rel="noopener">Ochrana osobných údajov ↗</a></p></div></div><div class="footer-bottom"><span>© 2026 ATLAS Žilina · Vizuálny návrh, nie oficiálny web.</span><span>KONCEPT & DIZAJN / VIVID PRODUCTION</span></div></footer><script src="app.js"></script></body></html>
